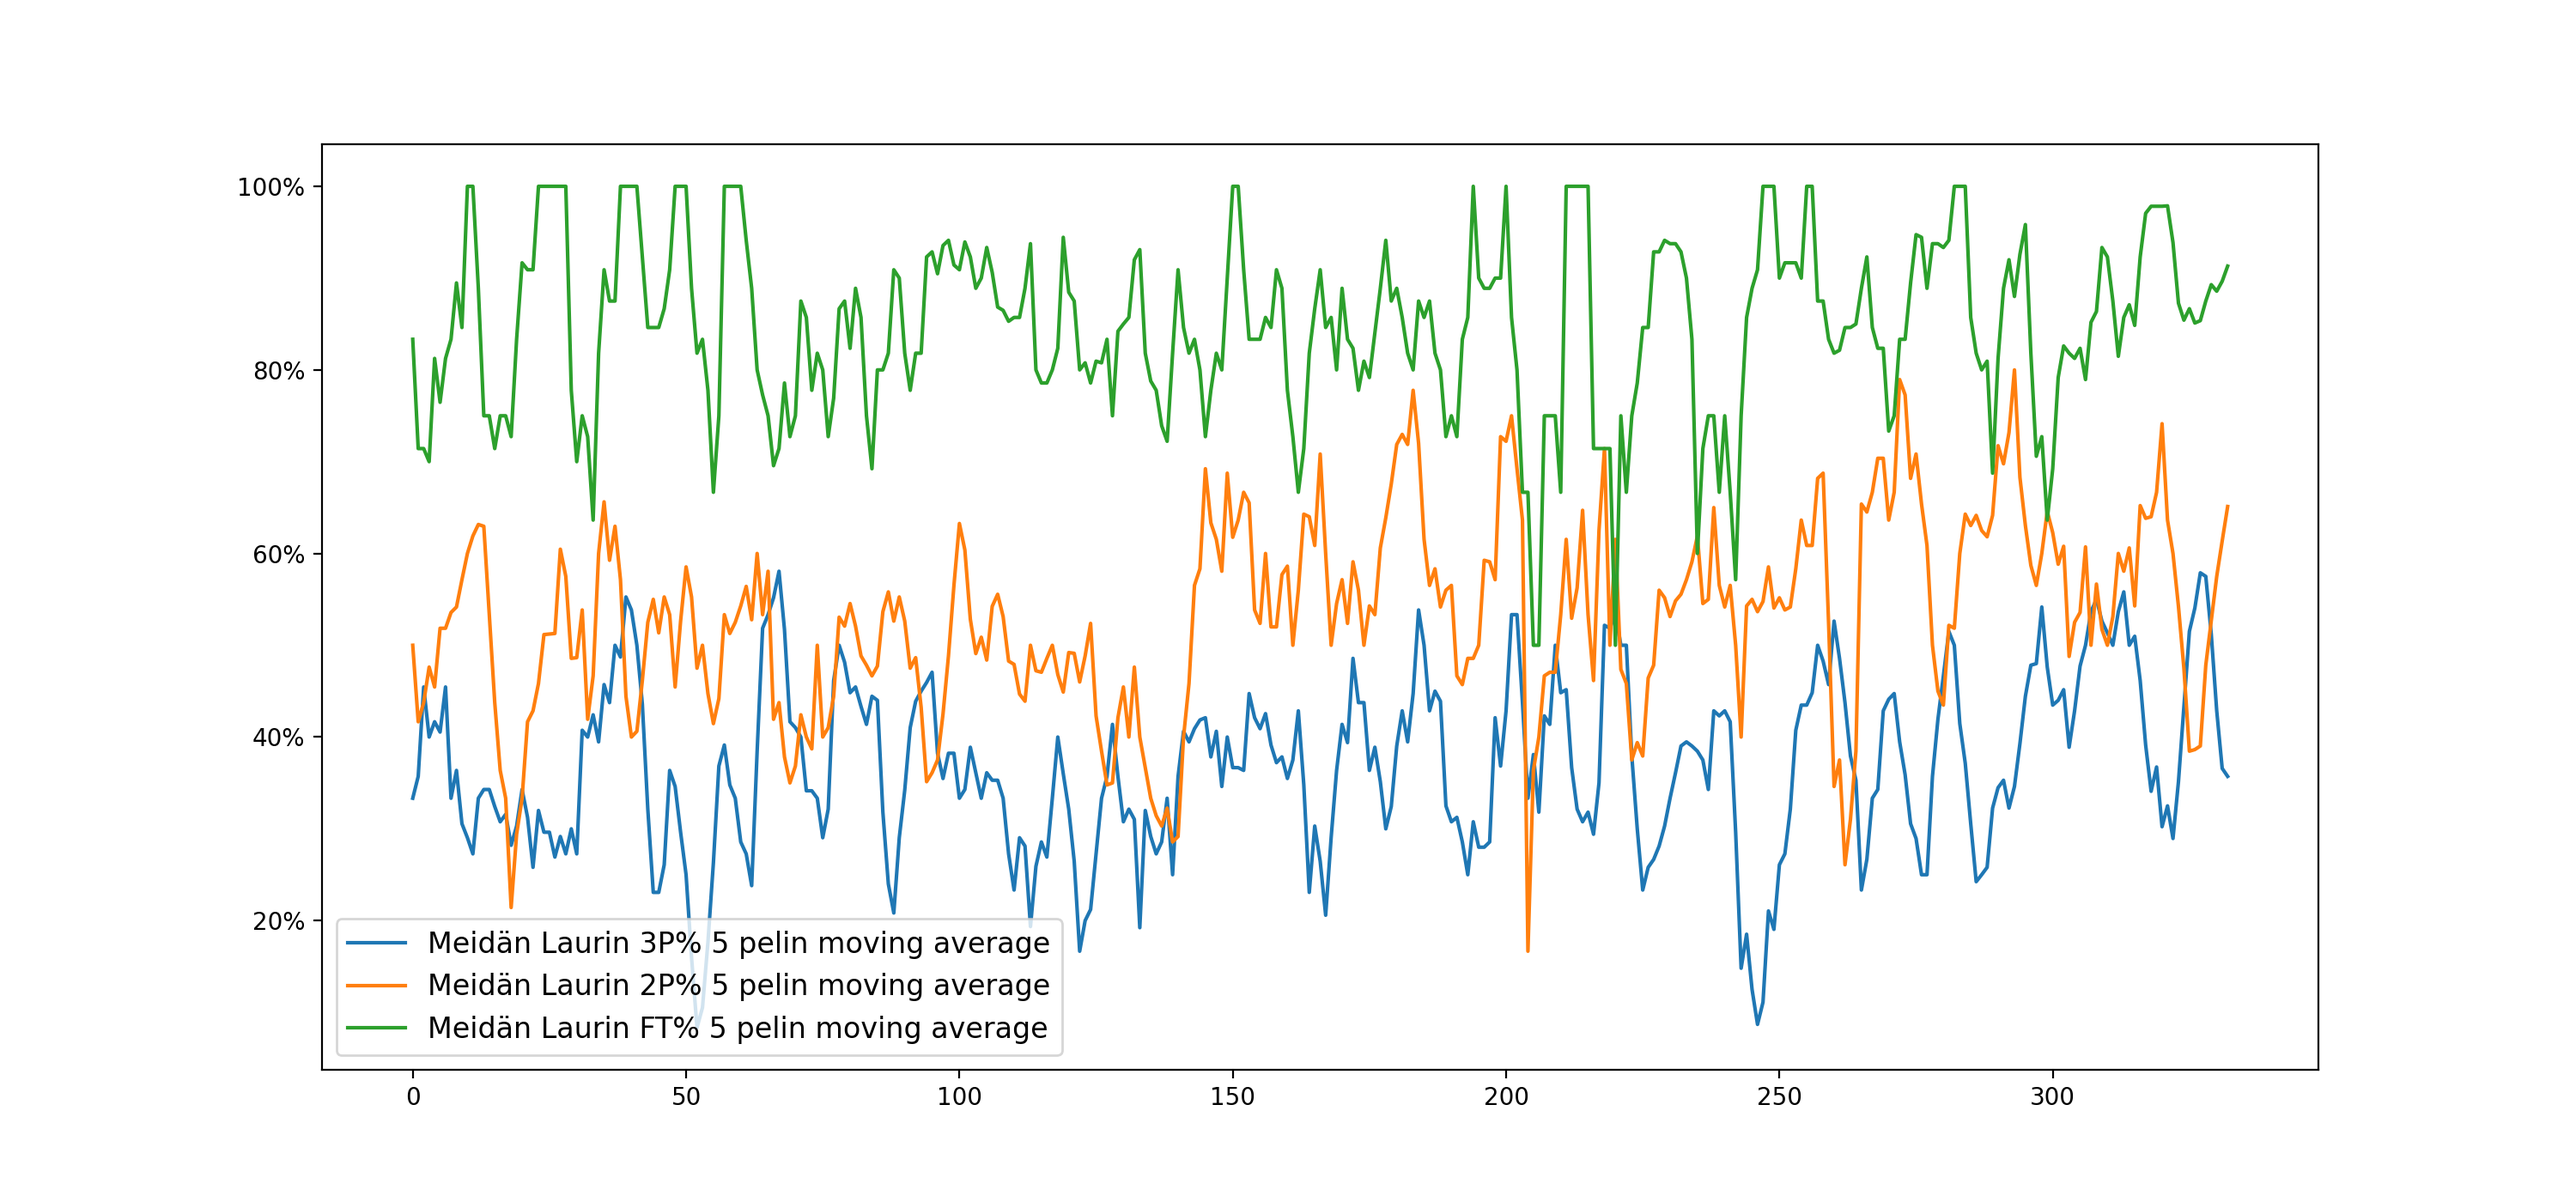
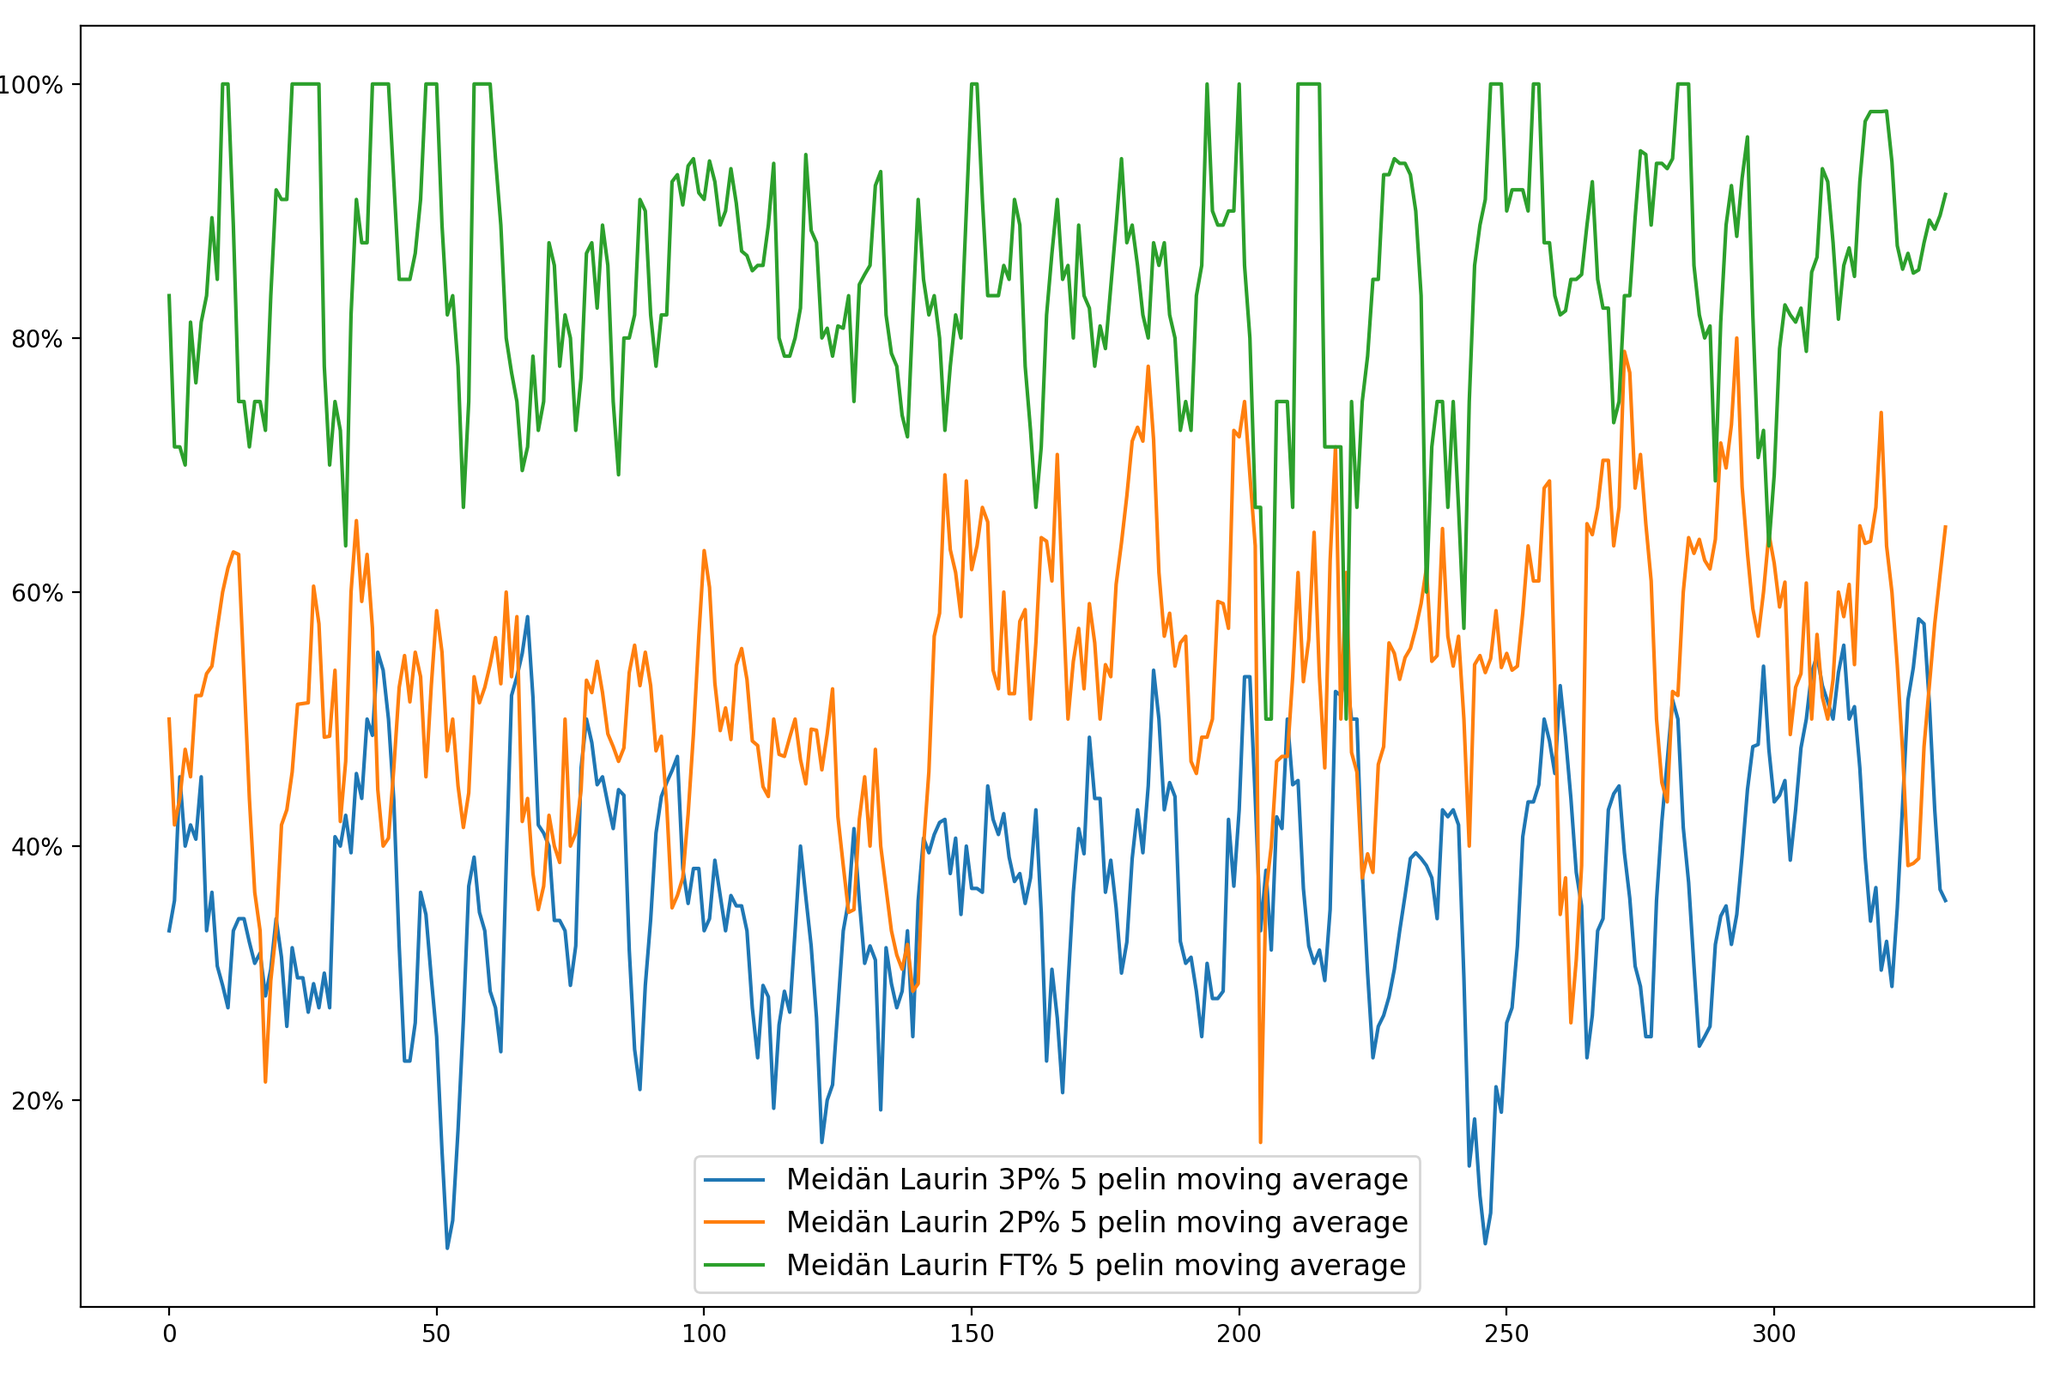
a

diff --git a/lauri.html b/lauri.html
@@ -43,34 +43,34 @@
 		<br />
 
 		<div class="selitys">
-			<div class="selitys-title">Laurin heittoprossat</div>
+			<div class="selitys-title">Laurin heittoprossat<br /><br /></div>
 		</div>
 
 		<div class="images">
 			<img
+				class="lauri-image"
 				src="lauri_pics/rolling_averages_5.png"
 				alt=""
-				style="height: 600px"
 			/>
 			<img
+				class="lauri-image"
 				src="lauri_pics/rolling_averages_10.png"
 				alt=""
-				style="height: 600px"
 			/>
 			<img
+				class="lauri-image"
 				src="lauri_pics/rolling_averages_25.png"
 				alt=""
-				style="height: 600px"
 			/>
 			<img
+				class="lauri-image"
 				src="lauri_pics/rolling_averages_82.png"
 				alt=""
-				style="height: 600px"
 			/>
 			<img
+				class="lauri-image"
 				src="lauri_pics/rolling_averages_1000.png"
 				alt=""
-				style="height: 600px"
 			/>
 		</div>
 	</body>

diff --git a/styles/nba.css b/styles/nba.css
@@ -64,6 +64,7 @@ tr:nth-child(even) {
 	display: flex;
 	align-items: center;
 	justify-content: center;
+	object-fit: contain;
 }
 
 .donate-button {
@@ -117,7 +118,7 @@ tr:nth-child(even) {
 .shop-container {
 	position: relative;
 	display: inline-flex;
-
+	object-fit: contain;
 	/*padding: 20px;*/
 }
 
@@ -179,7 +180,15 @@ tr:nth-child(even) {
 }
 
 .images {
-	background-color: rgb(228, 196, 0);
-	margin-left: 40px;
-	padding-left: 100px;
+	/*background-color: rgb(228, 196, 0);*/
+
+	width: 100%;
+	display: flex;
+	flex-direction: column;
+	right: 150px;
+}
+
+.lauri-image {
+	object-fit: contain;
+	max-height: 700px;
 }
